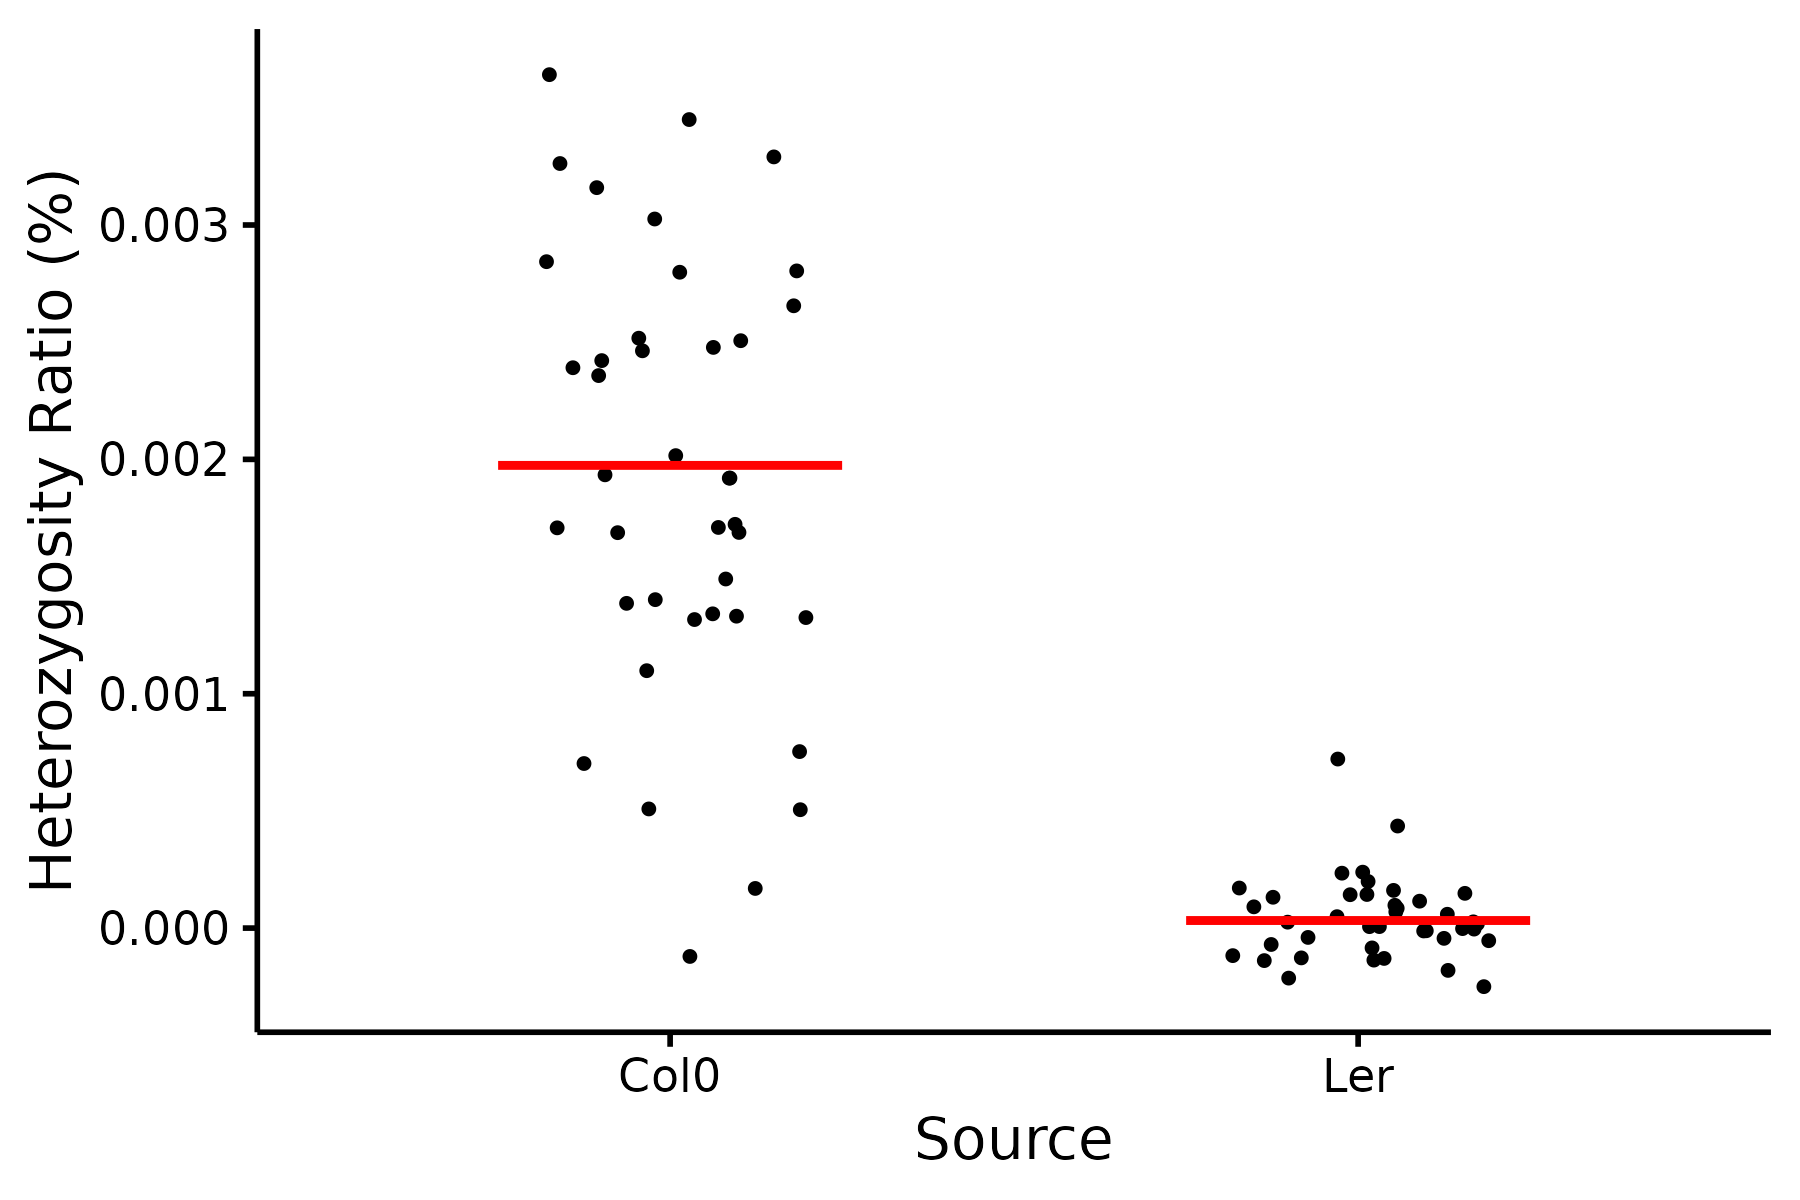
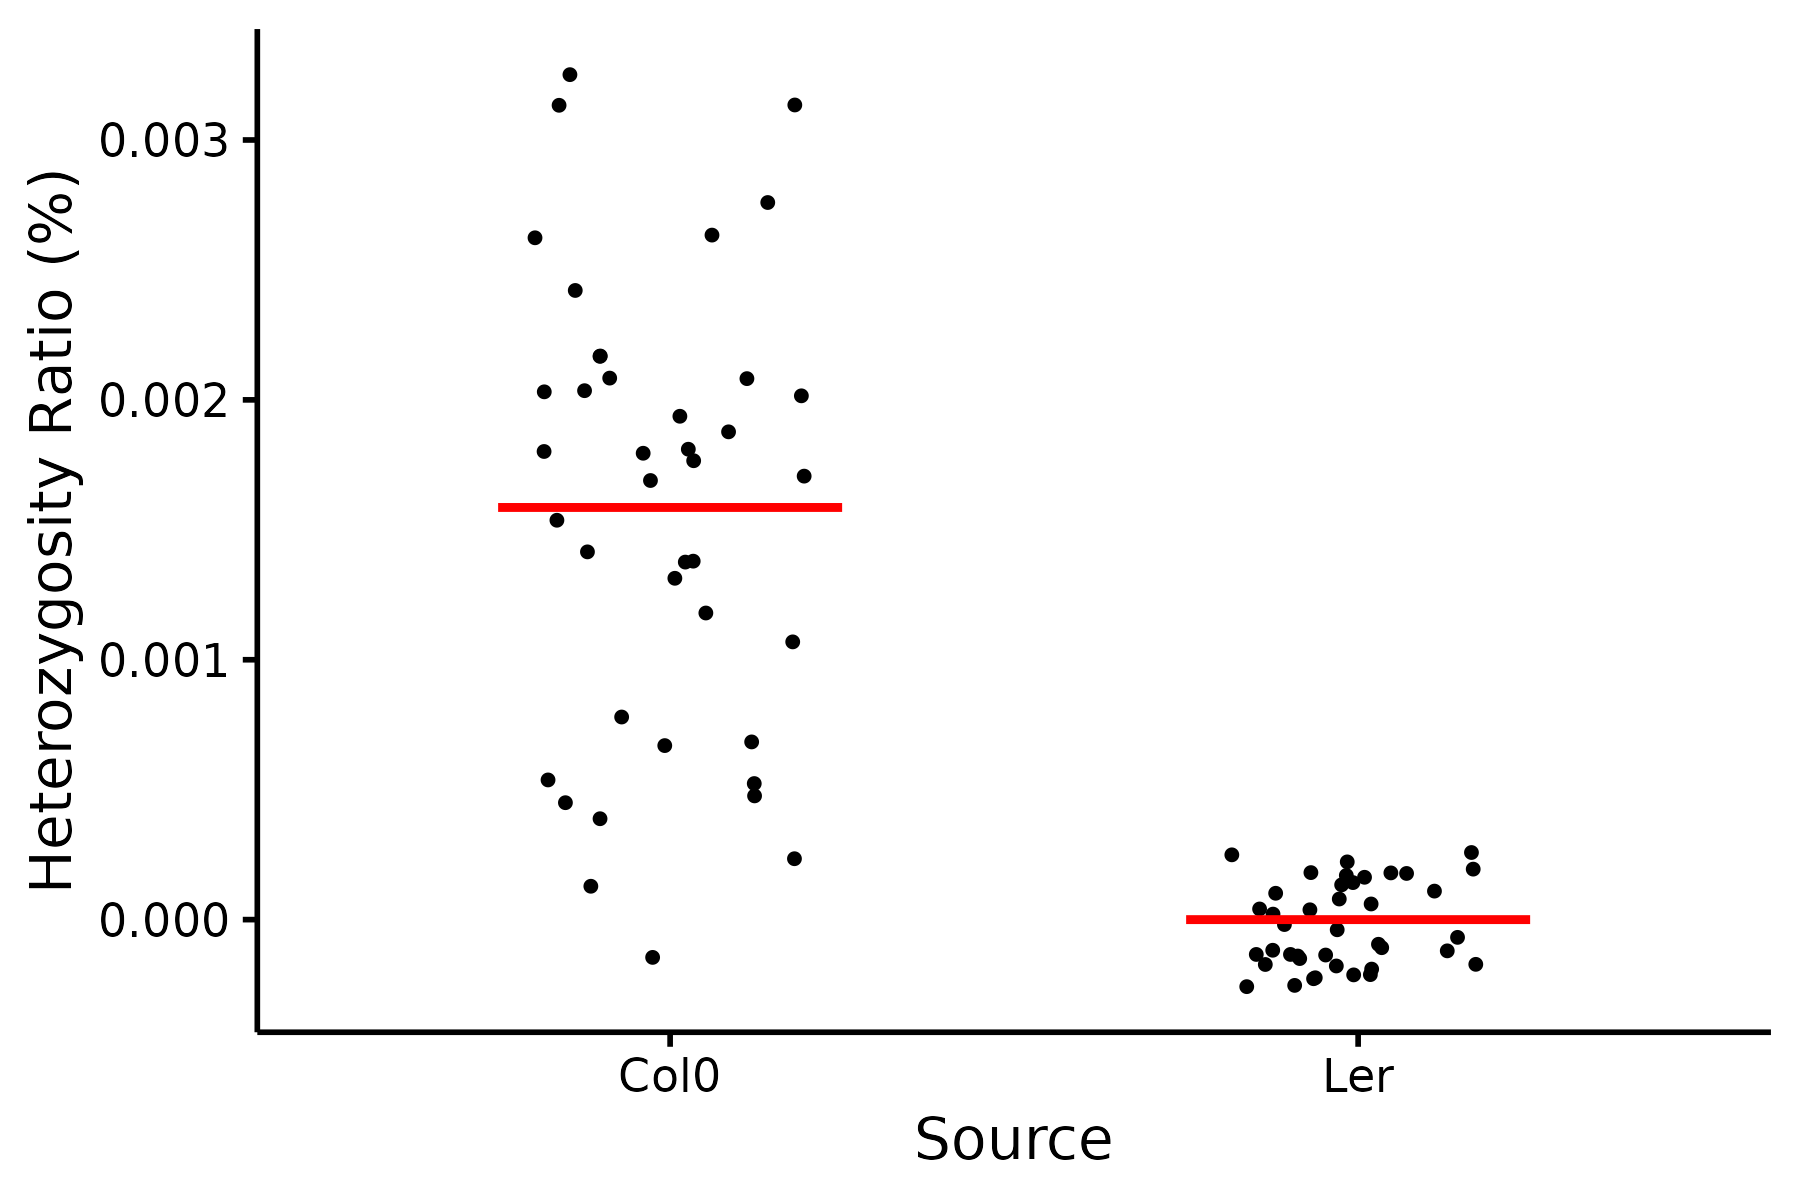
modified

diff --git a/Atha_cross/progeny_heterozygosity.md b/Atha_cross/progeny_heterozygosity.md
@@ -191,7 +191,7 @@ bcftools merge -m all Col_Pt.renamed.vcf.gz Ler_Pt.renamed.vcf.gz -Oz -o Col_Ler
 bcftools index Col_Ler.merged.vcf.gz
 
 bcftools query -f '%CHROM\t%POS\t%REF\t%ALT\t[%GT\t]\n' Col_Ler.merged.vcf.gz > Col_Ler_GT.tsv
-awk '$5 != $6' Col_Ler_GT.tsv > different_sites.tsv
+perl -ane 'print if $F[4] ne $F[5]' Col_Ler_GT.tsv > different_sites.tsv
 ```
 * extract progeny GT
 ```
@@ -237,34 +237,142 @@ bcftools index -f ../Atha_cross.vcf.gz
 #与父母本比较
 bcftools view -R <(cut -f1,2 different_sites.tsv) ../Atha_cross.vcf.gz -Oz -o F2_informative.vcf.gz
 
-bcftools index F2_informative.vcf.gz
-bcftools query -f '%CHROM\t%POS\t[%GT\t]\n' F2_informative.vcf.gz > F2_GT_matrix.tsv
+#排除类似异质性位点的假象
+cp ~/data/plastid/genome/col0/genome.fa .
+faops some genome.fa <(echo 1; echo 2; echo 3; echo 4; echo 5) chr.fa
+faops some genome.fa <(echo Pt) Pt.fa
+faops some genome.fa <(echo Mt) Mt.fa
+
+#去除核/线粒体同源区域
+bwa index chr.fa
+bwa index Mt.fa
+bwa index Pt.fa
+
+bwa mem -t 8 chr.fa Pt.fa | samtools sort -o Pt_vs_nuclear.bam
+bwa mem -t 8 Mt.fa Pt.fa  | samtools sort -o Pt_vs_mt.bam
+
+bedtools bamtobed -i Pt_vs_nuclear.bam > Pt_vs_nuclear.bed
+bedtools bamtobed -i Pt_vs_mt.bam > Pt_vs_mt.bed
+cat Pt_vs_nuclear.bed Pt_vs_mt.bed | bedtools sort -i - | bedtools merge -i - > Pt_homology.bed
+bcftools view -T ^Pt_homology.bed F2_informative.vcf.gz -Oz -o F2_filtered_homology.vcf.gz
+bcftools index -f F2_filtered_homology.vcf.gz
+
+#稀有位点过滤 (<10% 样本)
+bcftools query -f '%CHROM\t%POS[\t%GT]\n' F2_filtered_homology.vcf.gz |
+perl -F'\t' -ane '
+    $total_samples = '$(cat opts_no_parents.tsv | wc -l)';
+    $count_alt = 0;
+    $total = 0;
+    for ($i = 2; $i < @F; $i++) {
+        if ($F[$i] ne "./.") {
+            $total++;
+            $count_alt++ if $F[$i] =~ /1/;
+        }
+    }
+    if ($total > 0 && $count_alt / $total >= 0.1) {
+        print join("\t", @F[0,1]), "\n";
+    }
+' > common_sites.txt
+bcftools view -R common_sites.txt F2_filtered_homology.vcf.gz -Oz -o F2_common.vcf.gz
+bcftools index -f F2_common.vcf.gz
+
+# 成簇位点过滤 (<50bp)
+# 提取并转换位点
+bcftools query -f '%CHROM\t%POS\n' F2_common.vcf.gz | \
+perl -ane 'print "$F[0]\t" . ($F[1] - 1) . "\t$F[1]\n"' > sites.bed
+
+# 排序和聚类
+bedtools sort -i sites.bed | \
+bedtools cluster -d 50 -i - > clustered.bed
+
+#处理聚类结果
+perl -ane '
+    $cluster_count{$F[3]}++;
+    push @{$cluster_info{$F[3]}}, [$F[0], $F[2]];
+    END {
+        foreach $cluster_id (sort { $a <=> $b } keys %cluster_count) {
+            if ($cluster_count{$cluster_id} == 1) {
+                my $site = $cluster_info{$cluster_id}[0];
+                print "$site->[0]\t$site->[1]\n";
+            }
+        }
+    }
+' clustered.bed > nonclustered_chrom_pos.txt
+
+bcftools view -R nonclustered_chrom_pos.txt F2_common.vcf.gz -Oz -o F2_noncluster.vcf.gz
+bcftools index -f F2_noncluster.vcf.gz
+
+
+#排除测序或者 PCR  的偏向性错误（单碱基重复±2bp 过滤）
+grep -v "^>" Pt.fa | tr -d '\n' > Pt.seq.txt
+
+awk '{
+    seq=$0; pos=1;
+    while (match(seq, /(A{5,}|T{5,}|C{5,}|G{5,})/)) {
+        start=pos+RSTART-1;
+        end=start+RLENGTH-1;
+        print "Pt\t" start-1 "\t" end;
+        seq=substr(seq, RSTART+RLENGTH);
+        pos=start+RLENGTH;
+    }
+}' Pt.seq.txt > homopolymer.bed
+perl -ne '
+    while (/(A{5,}|T{5,}|C{5,}|G{5,})/g) {
+        $start = $-[0];       # 0-based
+        $end   = $+[0];       # exclusive
+        print "Pt\t$start\t$end\n";
+    }
+' Pt.seq.txt > homopolymer.bed
+samtools faidx Pt.fa
+bedtools slop -i homopolymer.bed -g Pt.fa.fai -b 2 > homopolymer_plus2.bed
+bcftools view -T ^homopolymer_plus2.bed F2_noncluster.vcf.gz -Oz -o F2_highconf.vcf.gz
+bcftools index -f F2_highconf.vcf.gz
+
+# 提取 GT 矩阵（基于高置信度 VCF）
+bcftools query -f '%CHROM\t%POS\t[%GT\t]\n' F2_highconf.vcf.gz > F2_GT_matrix.tsv
 
 grep -v -E '^Sample_Col_G|^Sample_Ler_XL_4|^Sample_c1c2|^Sample_l2c2|^Sample_l2l3|^Sample_l4c1|^Sample_l4l3' ../opts.tsv > opts_no_parents.tsv
 echo -e "CHROM\tPOS\t$(cat opts_no_parents.tsv | cut -f1 | paste -sd '\t' -)" > header.txt
 cat header.txt F2_GT_matrix.tsv > F2_GT_matrix_with_header.tsv
+
+bcftools query -f '%CHROM\t%POS\n' F2_highconf.vcf.gz > highconf_sites.list
+awk 'NR==FNR {a[$1":"$2]; next} ($1":"$2 in a)' highconf_sites.list different_sites_with_len.tsv > different_sites_with_len_highconf.tsv
+awk 'NR==FNR {a[$1":"$2]; next} ($1":"$2 in a)' highconf_sites.list F2_sites_ref_alt.tsv > F2_sites_ref_alt_highconf.tsv
+
+perl -F'\s+' -ane '
+    BEGIN {
+        open my $fh, "<", "highconf_sites.list" or die $!;
+        while (<$fh>) {
+            chomp;
+            my @f = split /\s+/;
+            $seen{"$f[0]:$f[1]"} = 1;
+        }
+        close $fh;
+    }
+    $key = "$F[0]:$F[1]";
+    print if $seen{$key};
+' different_sites_with_len.tsv > different_sites_with_len_highconf_perl.tsv
+
+
+
+perl -F'\t' -ane '
+    BEGIN {
+        open my $fh, "<", "highconf_sites.list" or die $!;
+        while (<$fh>) {
+            chomp;
+            $seen{$_} = 1;
+        }
+        close $fh;
+    }
+    $key = "$F[0]:$F[1]";
+    print if $seen{$key};
+' F2_sites_ref_alt.tsv > F2_sites_ref_alt_highconf_perl.tsv
 ```
 * calculate the proportion
 ```
 GENOME_SIZE=154478
 total_samples=$(cat opts_no_parents.tsv | wc -l)
 current=1
-
-# 从父母本差异VCF提取 REF/ALT 变异长度
-bcftools query -s Col,Ler -f '%CHROM\t%POS\t%REF\t%ALT\t[%GT\t]\n' Col_Ler.merged.vcf.gz \
-| awk -v OFS='\t' '{
-    split($4, alts, ",");
-    len_ref = length($3);
-    len_alt = length(alts[1]);
-    if (len_ref == len_alt) {
-        len_bp = len_ref;
-    } else {
-        len_bp = (len_ref > len_alt ? len_ref - len_alt : len_alt - len_ref);
-    }
-    print $1, $2, $3, alts[1], $5, $6, len_bp;
-}' > different_sites_with_len.tsv
-
-bcftools query -f '%CHROM\t%POS\t%REF\t%ALT\n' F2_informative.vcf.gz > F2_sites_ref_alt.tsv
 
 > sample_ratio_tmp.tsv
 cat opts_no_parents.tsv | while read -r line; do
@@ -273,67 +381,77 @@ cat opts_no_parents.tsv | while read -r line; do
 
     echo "[$current/$total_samples] 正在处理样本 $sample，列号 $target_col"
 
-    awk -v OFS='\t' -v target_col="$target_col" -v sample="$sample" -v GENOME_SIZE="$GENOME_SIZE" '
+    sample="$sample" target_col="$target_col" GENOME_SIZE="$GENOME_SIZE" \
+    perl -F'\t' -ane '
         BEGIN {
+            $sample     = $ENV{"sample"};
+            $target_col = $ENV{"target_col"};
+            $genome_size= $ENV{"GENOME_SIZE"};
+
             # 父母差异位点长度
-            while ((getline < "different_sites_with_len.tsv") > 0) {
-                key = $1":"$2
-                col_gt[key] = $5
-                ler_gt[key] = $6
-                site_len[key] = $7
+            open my $fh1, "<", "different_sites_with_len_highconf.tsv" or die $!;
+            while (<$fh1>) {
+                chomp;
+                my @f = split /\t/;
+                my $key = "$f[0]:$f[1]";
+                $col_gt{$key}  = $f[4];
+                $ler_gt{$key}  = $f[5];
+                $site_len{$key}= $f[6];
             }
+            close $fh1;
+
             # F2位点长度
-            while ((getline < "F2_sites_ref_alt.tsv") > 0) {
-                key = $1":"$2
-                len_ref = length($3)
-                len_alt = length($4)
-                if (len_ref == len_alt) {
-                    f2_len[key] = len_ref
-                } else {
-                    f2_len[key] = (len_ref > len_alt ? len_ref - len_alt : len_alt - len_ref)
-                }
+            open my $fh2, "<", "F2_sites_ref_alt_highconf.tsv" or die $!;
+            while (<$fh2>) {
+                chomp;
+                my @f = split /\t/;
+                my $key = "$f[0]:$f[1]";
+                my $len_ref = length($f[2]);
+                my $len_alt = length($f[3]);
+                $f2_len{$key} = ($len_ref == $len_alt) ? $len_ref : abs($len_ref - $len_alt);
             }
-            count_col = count_ler = count_mut = total = 0
-            len_col = len_ler = len_mut = 0
+            close $fh2;
+
+            $count_col = $count_ler = $count_mut = $total = 0;
+            $len_col = $len_ler = $len_mut = 0;
         }
-        NR > 1 {
-            key = $1":"$2
-            gt = $target_col
-            col = col_gt[key]
-            ler = ler_gt[key]
 
-            # 优先用父母差异长度
-            this_len = (site_len[key] != "" ? site_len[key] : f2_len[key])
+        next if $. == 1;   # 跳过header
 
-            if (gt == "./.") next
+        my $key = "$F[0]:$F[1]";
+        my $gt  = $F[$target_col - 1];
+        my $col = $col_gt{$key};
+        my $ler = $ler_gt{$key};
 
-            if (gt == col) {
-                count_col++
-                len_col += this_len
-            } else if (gt == ler) {
-                count_ler++
-                len_ler += this_len
-            } else {
-                count_mut++
-                len_mut += this_len
-            }
-            total++
+        my $this_len = exists $site_len{$key} ? $site_len{$key} : $f2_len{$key};
+        next if $gt eq "./.";
+
+        if ($gt eq $col) {
+            $count_col++; $len_col += $this_len;
+        } elsif ($gt eq $ler) {
+            $count_ler++; $len_ler += $this_len;
+        } else {
+            $count_mut++; $len_mut += $this_len;
         }
+        $total++;
+
         END {
-            if (total > 0 && GENOME_SIZE > 0) {
-                col_ratio = count_col / total * 100
-                ler_ratio = count_ler / total * 100
-                mut_ratio = count_mut / total * 100
+            if ($total > 0 && $genome_size > 0) {
+                my $col_ratio = $count_col / $total * 100;
+                my $ler_ratio = $count_ler / $total * 100;
+                my $mut_ratio = $count_mut / $total * 100;
 
-                col_genome = len_col / GENOME_SIZE * 100
-                ler_genome = len_ler / GENOME_SIZE * 100
-                mut_genome = len_mut / GENOME_SIZE * 100
+                my $col_genome = $len_col / $genome_size * 100;
+                my $ler_genome = $len_ler / $genome_size * 100;
+                my $mut_genome = $len_mut / $genome_size * 100;
 
-                printf("%s\t%.4f\t%.6f\t%.4f\t%.6f\t%.4f\t%.6f\t%d\t%d\t%d\t%d\t%d\t%d\n", \
-                    sample, col_ratio, col_genome, ler_ratio, ler_genome, mut_ratio, mut_genome, \
-                    count_col, count_ler, count_mut, len_col, len_ler, len_mut)
+                printf("%s\t%.4f\t%.6f\t%.4f\t%.6f\t%.4f\t%.6f\t%d\t%d\t%d\t%d\t%d\t%d\n",
+                    $sample, $col_ratio, $col_genome,
+                    $ler_ratio, $ler_genome, $mut_ratio, $mut_genome,
+                    $count_col, $count_ler, $count_mut,
+                    $len_col, $len_ler, $len_mut);
             } else {
-                printf("%s\tNA\tNA\tNA\tNA\tNA\tNA\t0\t0\t0\t0\t0\t0\n", sample)
+                printf("%s\t0\t0\t0\t0\t0\t0\t0\t0\t0\t0\t0\t0\n", $sample);
             }
         }
     ' F2_GT_matrix_with_header.tsv >> sample_ratio_tmp.tsv
@@ -355,42 +473,42 @@ tail -n +2 sample_ratio_summary.tsv | awk -F'\t' '{
 ```
 | 样本名称 | Col型比例(%) | Col基因组占比(%) | Ler型比例(%) | Ler基因组占比(%) | Mut型比例(%) | Mut基因组占比(%) | Col型位点数 | Ler型位点数 | Mut型位点数 | Col长度 | Ler长度 | Mut长度 |
 | --- | --- | --- | --- | --- | --- | --- | --- | --- | --- | --- | --- | --- |
-| Sample_14 | 100.0000 | 0.002589 | 0.0000 | 0.000000 | 0.0000 | 0.000000 | 4 | 0 | 0 | 4 | 0 | 0 |
+| Sample_14 | 100.0000 | 0.001942 | 0.0000 | 0.000000 | 0.0000 | 0.000000 | 3 | 0 | 0 | 3 | 0 | 0 |
 | Sample_18 | 100.0000 | 0.002589 | 0.0000 | 0.000000 | 0.0000 | 0.000000 | 4 | 0 | 0 | 4 | 0 | 0 |
-| Sample_19 | 75.0000 | 0.001942 | 0.0000 | 0.000000 | 25.0000 | 0.000647 | 3 | 0 | 1 | 3 | 0 | 1 |
+| Sample_19 | 100.0000 | 0.001942 | 0.0000 | 0.000000 | 0.0000 | 0.000000 | 3 | 0 | 0 | 3 | 0 | 0 |
 | Sample_20 | 100.0000 | 0.001295 | 0.0000 | 0.000000 | 0.0000 | 0.000000 | 2 | 0 | 0 | 2 | 0 | 0 |
-| Sample_21 | 66.6667 | 0.001295 | 0.0000 | 0.000000 | 33.3333 | 0.000647 | 2 | 0 | 1 | 2 | 0 | 1 |
+| Sample_21 | 100.0000 | 0.000647 | 0.0000 | 0.000000 | 0.0000 | 0.000000 | 1 | 0 | 0 | 1 | 0 | 0 |
 | Sample_4 | 100.0000 | 0.001942 | 0.0000 | 0.000000 | 0.0000 | 0.000000 | 3 | 0 | 0 | 3 | 0 | 0 |
-| Sample_5 | 100.0000 | 0.002589 | 0.0000 | 0.000000 | 0.0000 | 0.000000 | 4 | 0 | 0 | 4 | 0 | 0 |
-| Sample_6 | 0.0000 | 0.000000 | 100.0000 | 0.000647 | 0.0000 | 0.000000 | 0 | 1 | 0 | 0 | 1 | 0 |
-| Sample_7 | 75.0000 | 0.001942 | 0.0000 | 0.000000 | 25.0000 | 0.000647 | 3 | 0 | 1 | 3 | 0 | 1 |
-| Sample_8 | 100.0000 | 0.001942 | 0.0000 | 0.000000 | 0.0000 | 0.000000 | 3 | 0 | 0 | 3 | 0 | 0 |
-| Sample_c41 | 100.0000 | 0.002589 | 0.0000 | 0.000000 | 0.0000 | 0.000000 | 4 | 0 | 0 | 4 | 0 | 0 |
-| Sample_c42 | 100.0000 | 0.003237 | 0.0000 | 0.000000 | 0.0000 | 0.000000 | 5 | 0 | 0 | 5 | 0 | 0 |
+| Sample_5 | 100.0000 | 0.001942 | 0.0000 | 0.000000 | 0.0000 | 0.000000 | 3 | 0 | 0 | 3 | 0 | 0 |
+| Sample_6 | 0 | 0 | 0 | 0 | 0 | 0 | 0 | 0 | 0 | 0 | 0 | 0 |
+| Sample_7 | 100.0000 | 0.001942 | 0.0000 | 0.000000 | 0.0000 | 0.000000 | 3 | 0 | 0 | 3 | 0 | 0 |
+| Sample_8 | 100.0000 | 0.001295 | 0.0000 | 0.000000 | 0.0000 | 0.000000 | 2 | 0 | 0 | 2 | 0 | 0 |
+| Sample_c41 | 100.0000 | 0.001942 | 0.0000 | 0.000000 | 0.0000 | 0.000000 | 3 | 0 | 0 | 3 | 0 | 0 |
+| Sample_c42 | 100.0000 | 0.002589 | 0.0000 | 0.000000 | 0.0000 | 0.000000 | 4 | 0 | 0 | 4 | 0 | 0 |
 | Sample_c45 | 66.6667 | 0.001295 | 0.0000 | 0.000000 | 33.3333 | 0.000647 | 2 | 0 | 1 | 2 | 0 | 1 |
-| Sample_c47 | 80.0000 | 0.002589 | 0.0000 | 0.000000 | 20.0000 | 0.000647 | 4 | 0 | 1 | 4 | 0 | 1 |
-| Sample_c48 | 100.0000 | 0.001295 | 0.0000 | 0.000000 | 0.0000 | 0.000000 | 2 | 0 | 0 | 2 | 0 | 0 |
-| Sample_c51 | 80.0000 | 0.002589 | 0.0000 | 0.000000 | 20.0000 | 0.000647 | 4 | 0 | 1 | 4 | 0 | 1 |
-| Sample_c52 | 100.0000 | 0.001295 | 0.0000 | 0.000000 | 0.0000 | 0.000000 | 2 | 0 | 0 | 2 | 0 | 0 |
-| Sample_c54 | 100.0000 | 0.003884 | 0.0000 | 0.000000 | 0.0000 | 0.000000 | 6 | 0 | 0 | 6 | 0 | 0 |
-| Sample_c57 | 100.0000 | 0.002589 | 0.0000 | 0.000000 | 0.0000 | 0.000000 | 4 | 0 | 0 | 4 | 0 | 0 |
-| Sample_c61 | 100.0000 | 0.001942 | 0.0000 | 0.000000 | 0.0000 | 0.000000 | 3 | 0 | 0 | 3 | 0 | 0 |
-| Sample_c62 | 83.3333 | 0.003237 | 0.0000 | 0.000000 | 16.6667 | 0.000647 | 5 | 0 | 1 | 5 | 0 | 1 |
-| Sample_c63 | 50.0000 | 0.000647 | 0.0000 | 0.000000 | 50.0000 | 0.000647 | 1 | 0 | 1 | 1 | 0 | 1 |
-| Sample_c64 | 100.0000 | 0.002589 | 0.0000 | 0.000000 | 0.0000 | 0.000000 | 4 | 0 | 0 | 4 | 0 | 0 |
-| Sample_c65 | 75.0000 | 0.001942 | 0.0000 | 0.000000 | 25.0000 | 0.000647 | 3 | 0 | 1 | 3 | 0 | 1 |
-| Sample_c66 | 33.3333 | 0.001295 | 33.3333 | 0.000647 | 33.3333 | 0.000647 | 1 | 1 | 1 | 2 | 1 | 1 |
+| Sample_c47 | 100.0000 | 0.001942 | 0.0000 | 0.000000 | 0.0000 | 0.000000 | 3 | 0 | 0 | 3 | 0 | 0 |
+| Sample_c48 | 100.0000 | 0.000647 | 0.0000 | 0.000000 | 0.0000 | 0.000000 | 1 | 0 | 0 | 1 | 0 | 0 |
+| Sample_c51 | 100.0000 | 0.001942 | 0.0000 | 0.000000 | 0.0000 | 0.000000 | 3 | 0 | 0 | 3 | 0 | 0 |
+| Sample_c52 | 100.0000 | 0.000647 | 0.0000 | 0.000000 | 0.0000 | 0.000000 | 1 | 0 | 0 | 1 | 0 | 0 |
+| Sample_c54 | 100.0000 | 0.003237 | 0.0000 | 0.000000 | 0.0000 | 0.000000 | 5 | 0 | 0 | 5 | 0 | 0 |
+| Sample_c57 | 100.0000 | 0.001942 | 0.0000 | 0.000000 | 0.0000 | 0.000000 | 3 | 0 | 0 | 3 | 0 | 0 |
+| Sample_c61 | 100.0000 | 0.001295 | 0.0000 | 0.000000 | 0.0000 | 0.000000 | 2 | 0 | 0 | 2 | 0 | 0 |
+| Sample_c62 | 100.0000 | 0.002589 | 0.0000 | 0.000000 | 0.0000 | 0.000000 | 4 | 0 | 0 | 4 | 0 | 0 |
+| Sample_c63 | 100.0000 | 0.000647 | 0.0000 | 0.000000 | 0.0000 | 0.000000 | 1 | 0 | 0 | 1 | 0 | 0 |
+| Sample_c64 | 100.0000 | 0.001942 | 0.0000 | 0.000000 | 0.0000 | 0.000000 | 3 | 0 | 0 | 3 | 0 | 0 |
+| Sample_c65 | 100.0000 | 0.001295 | 0.0000 | 0.000000 | 0.0000 | 0.000000 | 2 | 0 | 0 | 2 | 0 | 0 |
+| Sample_c66 | 0 | 0 | 0 | 0 | 0 | 0 | 0 | 0 | 0 | 0 | 0 | 0 |
 | Sample_c73 | 100.0000 | 0.001942 | 0.0000 | 0.000000 | 0.0000 | 0.000000 | 3 | 0 | 0 | 3 | 0 | 0 |
-| Sample_c81 | 80.0000 | 0.002589 | 0.0000 | 0.000000 | 20.0000 | 0.000647 | 4 | 0 | 1 | 4 | 0 | 1 |
-| Sample_c82 | 100.0000 | 0.001942 | 0.0000 | 0.000000 | 0.0000 | 0.000000 | 3 | 0 | 0 | 3 | 0 | 0 |
+| Sample_c81 | 75.0000 | 0.001942 | 0.0000 | 0.000000 | 25.0000 | 0.000647 | 3 | 0 | 1 | 3 | 0 | 1 |
+| Sample_c82 | 100.0000 | 0.001295 | 0.0000 | 0.000000 | 0.0000 | 0.000000 | 2 | 0 | 0 | 2 | 0 | 0 |
 | Sample_c83 | 100.0000 | 0.000647 | 0.0000 | 0.000000 | 0.0000 | 0.000000 | 1 | 0 | 0 | 1 | 0 | 0 |
-| Sample_c84 | 50.0000 | 0.000647 | 0.0000 | 0.000000 | 50.0000 | 0.000647 | 1 | 0 | 1 | 1 | 0 | 1 |
+| Sample_c84 | 100.0000 | 0.000647 | 0.0000 | 0.000000 | 0.0000 | 0.000000 | 1 | 0 | 0 | 1 | 0 | 0 |
 | Sample_c85 | 100.0000 | 0.001942 | 0.0000 | 0.000000 | 0.0000 | 0.000000 | 3 | 0 | 0 | 3 | 0 | 0 |
-| Sample_c87 | 100.0000 | 0.002589 | 0.0000 | 0.000000 | 0.0000 | 0.000000 | 4 | 0 | 0 | 4 | 0 | 0 |
-| Sample_c88 | 80.0000 | 0.003237 | 0.0000 | 0.000000 | 20.0000 | 0.000647 | 4 | 0 | 1 | 5 | 0 | 1 |
-| Sample_c89 | 100.0000 | 0.003237 | 0.0000 | 0.000000 | 0.0000 | 0.000000 | 4 | 0 | 0 | 5 | 0 | 0 |
-| Sample_c90 | 0.0000 | 0.000000 | 0.0000 | 0.000000 | 100.0000 | 0.000647 | 0 | 0 | 1 | 0 | 0 | 1 |
-| Sample_c91 | 100.0000 | 0.001295 | 0.0000 | 0.000000 | 0.0000 | 0.000000 | 2 | 0 | 0 | 2 | 0 | 0 |
+| Sample_c87 | 100.0000 | 0.001942 | 0.0000 | 0.000000 | 0.0000 | 0.000000 | 3 | 0 | 0 | 3 | 0 | 0 |
+| Sample_c88 | 100.0000 | 0.003237 | 0.0000 | 0.000000 | 0.0000 | 0.000000 | 4 | 0 | 0 | 5 | 0 | 0 |
+| Sample_c89 | 100.0000 | 0.001942 | 0.0000 | 0.000000 | 0.0000 | 0.000000 | 3 | 0 | 0 | 3 | 0 | 0 |
+| Sample_c90 | 0 | 0 | 0 | 0 | 0 | 0 | 0 | 0 | 0 | 0 | 0 | 0 |
+| Sample_c91 | 100.0000 | 0.000647 | 0.0000 | 0.000000 | 0.0000 | 0.000000 | 1 | 0 | 0 | 1 | 0 | 0 |
 | Sample_c92 | 100.0000 | 0.000647 | 0.0000 | 0.000000 | 0.0000 | 0.000000 | 1 | 0 | 0 | 1 | 0 | 0 |
 | Sample_c93 | 100.0000 | 0.002589 | 0.0000 | 0.000000 | 0.0000 | 0.000000 | 4 | 0 | 0 | 4 | 0 | 0 |
 | Sample_c94 | 100.0000 | 0.001295 | 0.0000 | 0.000000 | 0.0000 | 0.000000 | 2 | 0 | 0 | 2 | 0 | 0 |
